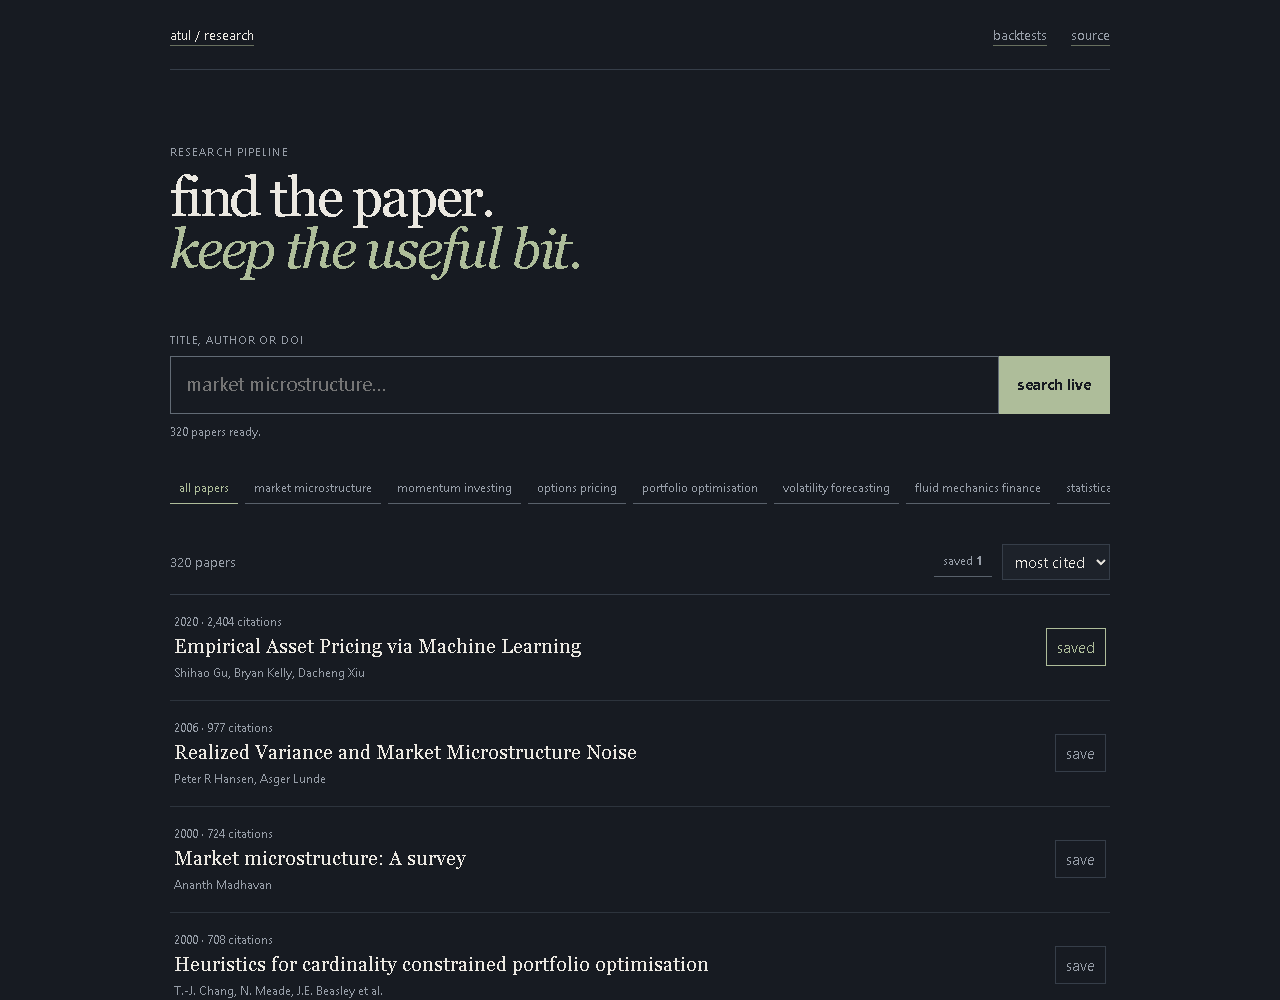
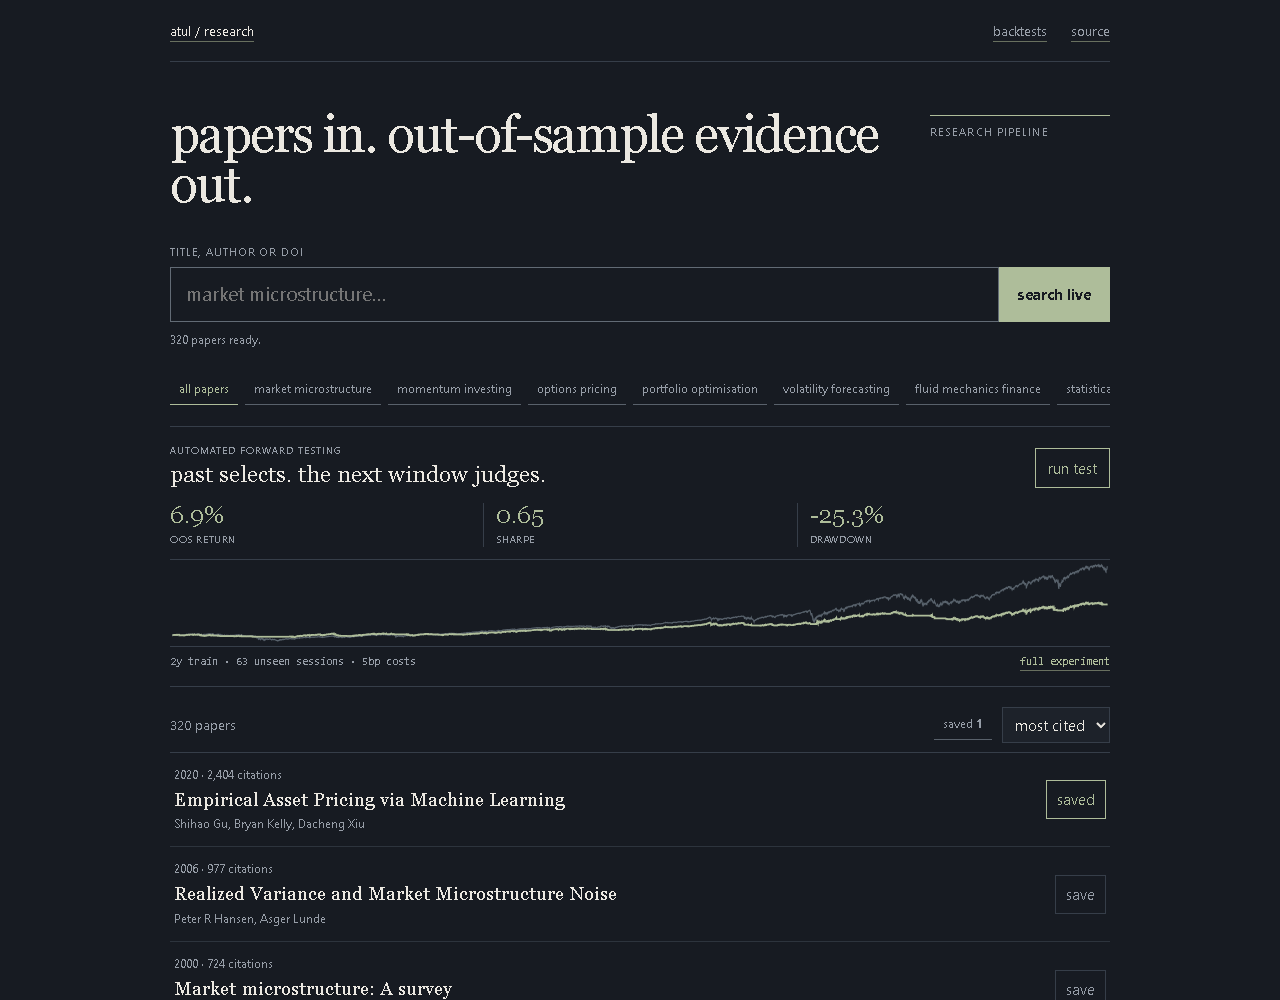
Unify paper search and walk forward testing

diff --git a/examples/portfolio/identity.css b/examples/portfolio/identity.css
@@ -1,0 +1,2 @@
+/* research desk: search, evidence, then an out-of-sample decision */
+header{height:62px}main{padding:48px 0 54px}.hero{display:grid;grid-template-columns:minmax(0,1fr) 180px;align-items:end;column-gap:24px}.hero p{grid-column:2;grid-row:1;align-self:start;margin:5px 0 0;padding-top:8px;border-top:1px solid var(--accent)}.hero h1{grid-column:1;grid-row:1;margin:0 0 34px;font-size:52px}.search-row input{min-height:52px}.topics{padding:11px 0 6px}.walk-forward{margin:15px 0 9px;padding:16px 0;border-block:1px solid var(--line)}.forward-head{display:flex;align-items:end;justify-content:space-between;gap:18px}.forward-head p{margin:0 0 4px;color:var(--muted);font-size:10px;letter-spacing:.1em;text-transform:uppercase}.forward-head h2{margin:0;font:23px/1.15 Georgia,serif;font-weight:400}.forward-head button{min-height:40px;padding:7px 12px;border:1px solid var(--accent);background:transparent;color:var(--accent)}#forward-stats{display:grid;grid-template-columns:repeat(3,1fr);margin-top:15px}#forward-stats span{padding-left:12px;border-left:1px solid var(--line)}#forward-stats span:first-child{padding-left:0;border:0}#forward-stats strong{display:block;color:var(--accent);font:24px/1 Georgia,serif;font-weight:400}#forward-stats small{display:block;margin-top:5px;color:var(--muted);font-size:10px;letter-spacing:.06em;text-transform:uppercase}#forward-chart{height:88px;margin-top:12px;border-block:1px solid var(--line)}#forward-chart svg{display:block;width:100%;height:100%}#forward-chart path{fill:none;vector-effect:non-scaling-stroke}.benchmark{stroke:#58626c;stroke-width:1.1}.strategy{stroke:var(--accent);stroke-width:1.8}.forward-foot{display:flex;justify-content:space-between;gap:14px;margin-top:7px;color:var(--muted);font:11px/1.4 ui-monospace,Consolas,monospace}.forward-foot a{color:var(--accent)}.result-tools{margin-top:11px;padding:9px 0}.paper{padding:13px 4px}.paper h2{font-size:19px}.pagination{padding:13px 0}.reading-list{margin-top:18px;padding-bottom:13px}.reading-list summary{padding:13px 0}@media(max-width:650px){main{padding:34px 0 42px}.hero{display:block}.hero p{border:0;padding:0;margin-bottom:8px}.hero h1{font-size:clamp(39px,12vw,50px);margin-bottom:28px}.forward-head{align-items:start}.forward-head h2{font-size:19px}#forward-stats strong{font-size:21px}.forward-foot{display:block}.forward-foot a{display:inline-block;margin-top:5px}.paper{padding-block:11px}}

diff --git a/examples/portfolio/index.html b/examples/portfolio/index.html
@@ -1,16 +1,22 @@
 <!doctype html>
 <html lang="en">
-<head><meta charset="utf-8"><meta name="viewport" content="width=device-width,initial-scale=1"><title>quant research / paper finder</title><link rel="stylesheet" href="style.css"></head>
+<head><meta charset="utf-8"><meta name="viewport" content="width=device-width,initial-scale=1"><title>quant research / paper finder</title><link rel="stylesheet" href="style.css"><link rel="stylesheet" href="identity.css"></head>
 <body>
 <header><a href="https://lolstar123.github.io/just-a-little-further/">atul / research</a><nav><a href="backtesting/">backtests</a><a href="https://github.com/LolStar123/quant-research-scraper">source</a></nav></header>
 <main>
-    <section class="hero"><p>research pipeline</p><h1>find the paper.<br><em>keep the useful bit.</em></h1></section>
+    <section class="hero"><p>research pipeline</p><h1>papers in. out-of-sample evidence out.</h1></section>
     <form id="search-form">
         <label for="query">title, author or DOI</label>
         <div class="search-row"><input id="query" type="search" placeholder="market microstructure…"><button id="live">search live</button></div>
         <p id="status" role="status">loading papers…</p>
     </form>
     <div id="topics" class="topics" aria-label="Topics"></div>
+    <section class="walk-forward" aria-labelledby="forward-title">
+        <div class="forward-head"><div><p>automated forward testing</p><h2 id="forward-title">past selects. the next window judges.</h2></div><button id="run-test">run test</button></div>
+        <div id="forward-stats" aria-live="polite"></div>
+        <div id="forward-chart" role="img" aria-label="Out-of-sample strategy and benchmark equity"></div>
+        <div class="forward-foot"><span id="forward-window">loading prices…</span><a href="backtesting/">full experiment</a></div>
+    </section>
     <div class="result-tools"><p id="count"></p><div><button id="saved-filter" aria-pressed="false">saved <b id="saved-count">0</b></button><select id="sort" aria-label="Sort papers"><option value="citations">most cited</option><option value="year">newest</option><option value="title">title</option></select></div></div>
     <section id="papers" aria-label="papers"></section>
     <nav class="pagination" aria-label="Paper pages"><button id="previous">←</button><span id="page-number"></span><button id="next">→</button></nav>

diff --git a/tools/browser_audit.py b/tools/browser_audit.py
@@ -17,6 +17,12 @@ try:
         errors=[];page.on('pageerror',lambda e:errors.append(str(e)))
         page.goto(os.environ.get('AUDIT_URL',f'http://127.0.0.1:{server.server_port}'),wait_until='networkidle')
         page.wait_for_function('window.__research?.ready')
+        page.wait_for_function('window.__research?.forwardReady')
+        assert page.locator('#forward-stats span').count()==3
+        first_window=page.locator('#forward-window').inner_text()
+        page.locator('#run-test').click()
+        assert page.locator('#forward-window').inner_text()!=first_window
+        assert page.evaluate('__research.forwardWindows')>0
         assert page.evaluate('__research.total')>=300
         assert page.locator('.paper').count()==8
         page.locator('[data-save]').first.click()
@@ -52,6 +58,6 @@ try:
         page.set_viewport_size({'width':390,'height':844})
         assert page.evaluate('document.documentElement.scrollWidth<=innerWidth+1'),'mobile overflow'
         assert not errors,errors
-        print('PASS: populated library, search, DOI collection, save/import, BibTeX and mobile')
+        print('PASS: paper collection, live DOI search, walk-forward test, save/import, BibTeX and mobile')
         browser.close()
 finally: server.shutdown()
